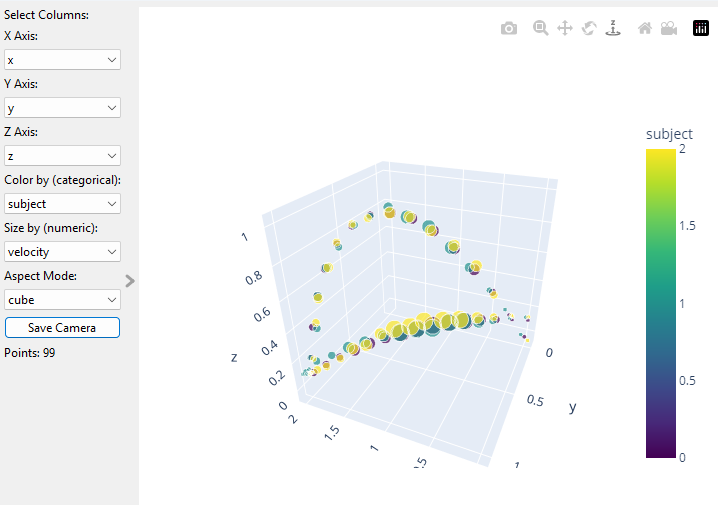
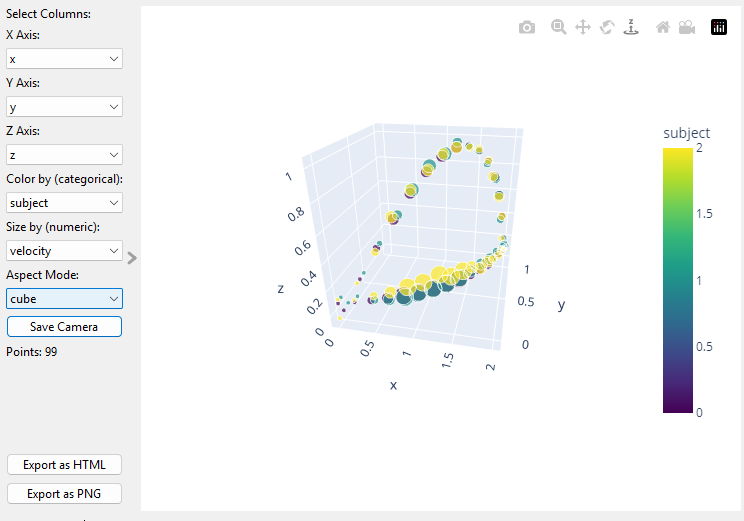
add HTML/PNG save capability

diff --git a/orangecontrib/vis3d/widgets/scatter3d.py b/orangecontrib/vis3d/widgets/scatter3d.py
@@ -367,6 +367,14 @@ class Scatter3dWidget(OWWidget):
         spacer = QSpacerItem(0, 0, QSizePolicy.Minimum, QSizePolicy.Expanding)
         self.controlArea.layout().addItem(spacer)
 
+        # Export buttons
+        self.export_html_btn = QPushButton("Export as HTML")
+        self.export_png_btn = QPushButton("Export as PNG")
+        self.controlArea.layout().addWidget(self.export_html_btn)
+        self.controlArea.layout().addWidget(self.export_png_btn)
+        self.export_html_btn.clicked.connect(self.export_html)
+        self.export_png_btn.clicked.connect(self.export_png)
+
         # Plot display
         self.web = QWebEngineView(self)
 
@@ -383,6 +391,21 @@ class Scatter3dWidget(OWWidget):
         self.web.page().loadFinished.connect(self._attach_camera_listener)
 
         self.mainArea.layout().addWidget(self.web)
+        
+    def export_html(self):
+        if hasattr(self, "_last_figure"):
+            path, _ = QFileDialog.getSaveFileName(self, "Export as HTML", "", "HTML files (*.html)")
+            if path:
+                self._last_figure.write_html(path)
+
+    def export_png(self):
+        if hasattr(self, "_last_figure"):
+            path, _ = QFileDialog.getSaveFileName(self, "Export as PNG", "", "PNG files (*.png)")
+            if path:
+                try:
+                    pio.write_image(self._last_figure, path)
+                except Exception as e:
+                    self.error(f"Failed to export PNG: {e}")
 
 
 if __name__ == "__main__":

diff --git a/README.md b/README.md
@@ -52,3 +52,5 @@ The Aspect mode can be set to "Cube" to stretch / squeeze the data into a cube.
 
 Alternatively, setting Aspect Mode to "data" will stretch /squeeze the plot volume to fit the data.
 ![cube aspect](AspectData.png)
+
+Plots can be saved either as interactive HTML or as static PNG using the buttons in the bottom left.
